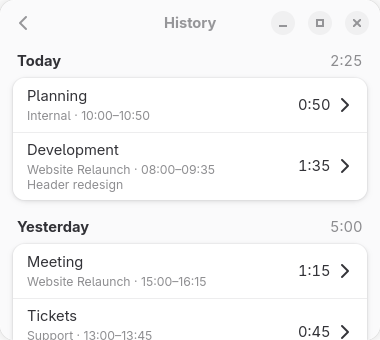
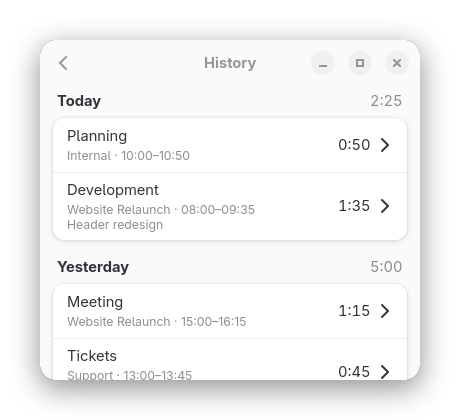
docs: Round screenshot corners and add transparent margin with shadow

diff --git a/README.md b/README.md
@@ -2,7 +2,7 @@
 
 > Moin! Wie man sicherlich sieht, ist die App völlig gevibecoded. Es handelt sich hier also nicht um maintainte und zugängliche Open-Source-Software für die allgemeine Nutzung, sondern nur um ein kleines Tool, das ich basteln gelassen habe, um in meinen eigenen Workflow zu passen. Wenn es das auch für dich tut, feel free, die App zu installieren, aber erwarte nicht zu viel :)
 
-<p align="center"><img src="data/screenshots/running.png" alt="Stempeluhr while tracking" width="380"></p>
+<p align="center"><img src="data/screenshots/running.png" alt="Stempeluhr while tracking"></p>
 
 A small, quiet GNOME app that starts and stops time tracking in
 [Kimai](https://www.kimai.org/). Plus a plain history of the last 30 days where
